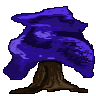
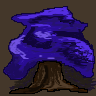
feat: Adding purple dark & light tree tiles.

diff --git a/adventures.and.beyond/src/tile/TileManager.java b/adventures.and.beyond/src/tile/TileManager.java
@@ -55,9 +55,12 @@ public class TileManager {
         Tile tileRockWall = createTile("/tiles/rock_wall.png",false);
 
         Tile tileTest = createTile("/tiles/grass_custom.png",true);
+        Tile tilePurpleTreeDark =createTile("/tiles/tree/purple_dark_tree.png",false);
+        Tile tilePurpleTreeLight =createTile("/tiles/tree/purple_light_tree.png",false);
 
 
-        return new Tile[]{tileGrass, tilePath, tileWater, tileWall, tileRockWall, tileTest};
+
+        return new Tile[]{tileGrass, tilePath, tileWater, tileWall, tileRockWall, tileTest,tilePurpleTreeDark,tilePurpleTreeLight};
     }
 
     public Tile getTileByIndex(int tileIndex) {
